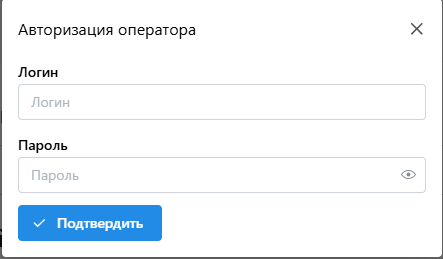
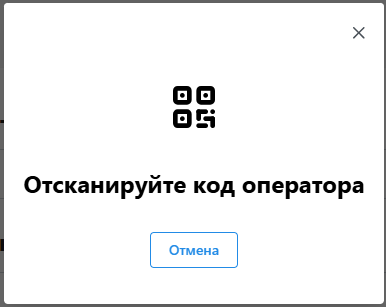
реализовал проверку работы сканера

Changed region(s): [[0.0, 0.0, 1.0, 1.0], [0.9016, 0.0927, 0.9637, 0.1544]]

diff --git a/Final_Test_Hybrid/Components/Main/Modals/UserScanDialog.razor.css b/Final_Test_Hybrid/Components/Main/Modals/UserScanDialog.razor.css
@@ -1,0 +1,45 @@
+.user-scan-dialog {
+    display: flex;
+    flex-direction: column;
+    align-items: center;
+    gap: 20px;
+    padding: 30px 40px;
+}
+
+::deep .qr-icon {
+    font-size: 80px !important;
+    color: #333;
+}
+
+.instruction-text {
+    font-size: 20px;
+    font-weight: 600;
+    color: #3b82f6;
+    text-align: center;
+}
+
+.hidden-input {
+    position: absolute;
+    left: -9999px;
+    width: 1px;
+    height: 1px;
+    opacity: 0;
+}
+
+.dialog-buttons {
+    margin-top: 10px;
+}
+
+::deep .dialog-buttons .rz-button {
+    padding: 10px 30px;
+    font-size: 16px;
+    font-weight: 600;
+    border: 1px solid #3b82f6;
+    border-radius: 6px;
+    color: #3b82f6;
+    background-color: white;
+}
+
+::deep .dialog-buttons .rz-button:hover {
+    background-color: #f0f7ff;
+}

diff --git a/Final_Test_Hybrid/wwwroot/css/app.css b/Final_Test_Hybrid/wwwroot/css/app.css
@@ -223,3 +223,12 @@ svg {
     font-size: 28px !important;
     font-weight: 700 !important;
 }
+
+/* ===== USER SCAN DIALOG ===== */
+.user-scan-dialog .rz-dialog-titlebar {
+    display: none !important;
+}
+
+.user-scan-dialog .rz-dialog-content {
+    padding: 0 !important;
+}

diff --git a/Final_Test_Hybrid/Services/Scanner/ScannerConnectionState.cs b/Final_Test_Hybrid/Services/Scanner/ScannerConnectionState.cs
@@ -1,0 +1,159 @@
+using System.Management;
+using Microsoft.Extensions.Configuration;
+using Microsoft.Extensions.Logging;
+
+namespace Final_Test_Hybrid.Services.Scanner;
+
+public class ScannerConnectionState : IDisposable
+{
+    public bool IsConnected { get; private set; }
+    public event Action<bool>? ConnectionStateChanged;
+    private readonly string _vendorId;
+    private readonly string _productId;
+    private readonly ILogger<ScannerConnectionState> _logger;
+    private ManagementEventWatcher? _watcher;
+    private bool _disposed;
+    private DateTime _lastCheck = DateTime.MinValue;
+    private readonly Lock _lock = new();
+
+    public ScannerConnectionState(IConfiguration configuration, ILogger<ScannerConnectionState> logger)
+    {
+        _logger = logger;
+        try
+        {
+            _vendorId = configuration["Scanner:VendorId"] ?? "0000";
+            _productId = configuration["Scanner:ProductId"] ?? "0000";
+            _logger.LogInformation("Инициализация ScannerConnectionState (VID={VendorId}, PID={ProductId})", _vendorId, _productId);
+            CheckScannerPresent();
+            StartWatching();
+        }
+        catch (Exception ex)
+        {
+            _logger.LogError(ex, "Ошибка инициализации ScannerConnectionState");
+            _vendorId ??= "0000";
+            _productId ??= "0000";
+        }
+    }
+
+    private void CheckScannerPresent()
+    {
+        if (_disposed)
+        {
+            return;
+        }
+        try
+        {
+            var query = $"SELECT * FROM Win32_PnPEntity WHERE DeviceID LIKE '%VID_{_vendorId}%' AND DeviceID LIKE '%PID_{_productId}%'";
+            using var searcher = new ManagementObjectSearcher(query);
+            var results = searcher.Get();
+            var newState = results.Count > 0;
+            UpdateConnectionState(newState);
+        }
+        catch (ManagementException ex)
+        {
+            _logger.LogWarning(ex, "WMI ошибка при проверке сканера");
+            UpdateConnectionState(false);
+        }
+        catch (Exception ex)
+        {
+            _logger.LogError(ex, "Ошибка проверки подключения сканера");
+            UpdateConnectionState(false);
+        }
+    }
+
+    private void StartWatching()
+    {
+        if (_disposed)
+        {
+            return;
+        }
+        try
+        {
+            var query = new WqlEventQuery("SELECT * FROM Win32_DeviceChangeEvent WHERE EventType = 2 OR EventType = 3");
+            _watcher = new ManagementEventWatcher(query);
+            _watcher.EventArrived += OnDeviceChanged;
+            _watcher.Start();
+            _logger.LogInformation("Мониторинг USB-устройств запущен");
+        }
+        catch (ManagementException ex)
+        {
+            _logger.LogWarning(ex, "WMI ошибка при запуске мониторинга USB");
+        }
+        catch (Exception ex)
+        {
+            _logger.LogError(ex, "Ошибка запуска мониторинга USB-устройств");
+        }
+    }
+
+    private void OnDeviceChanged(object sender, EventArrivedEventArgs e)
+    {
+        if (_disposed)
+        {
+            return;
+        }
+        try
+        {
+            lock (_lock)
+            {
+                var now = DateTime.UtcNow;
+                if ((now - _lastCheck).TotalMilliseconds < 500)
+                {
+                    return;
+                }
+                _lastCheck = now;
+            }
+            CheckScannerPresent();
+        }
+        catch (Exception ex)
+        {
+            _logger.LogError(ex, "Ошибка обработки события USB");
+        }
+    }
+
+    private void UpdateConnectionState(bool connected)
+    {
+        if (_disposed)
+        {
+            return;
+        }
+        if (IsConnected == connected)
+        {
+            return;
+        }
+        IsConnected = connected;
+        _logger.LogInformation("Состояние сканера: {State}", connected ? "подключен" : "отключен");
+        try
+        {
+            ConnectionStateChanged?.Invoke(connected);
+        }
+        catch (Exception ex)
+        {
+            _logger.LogError(ex, "Ошибка в обработчике ConnectionStateChanged");
+        }
+    }
+
+    public void Dispose()
+    {
+        if (_disposed)
+        {
+            return;
+        }
+        _disposed = true;
+        try
+        {
+            if (_watcher != null)
+            {
+                _watcher.EventArrived -= OnDeviceChanged;
+                _watcher.Stop();
+                _watcher.Dispose();
+                _watcher = null;
+            }
+            _logger.LogInformation("ScannerConnectionState disposed");
+        }
+        catch (Exception ex)
+        {
+            _logger.LogWarning(ex, "Ошибка при Dispose ScannerConnectionState");
+        }
+        GC.SuppressFinalize(this);
+    }
+}

diff --git a/Final_Test_Hybrid/Form1.cs b/Final_Test_Hybrid/Form1.cs
@@ -14,6 +14,7 @@ using Final_Test_Hybrid.Services.SpringBoot.Shift;
 using Final_Test_Hybrid.Settings.App;
 using Final_Test_Hybrid.Settings.OpcUa;
 using Final_Test_Hybrid.Settings.Spring;
+using Final_Test_Hybrid.Services.Scanner;
 using Final_Test_Hybrid.Settings.Spring.Shift;
 using Microsoft.AspNetCore.Components.WebView.WindowsForms;
 using Microsoft.Extensions.Configuration;
